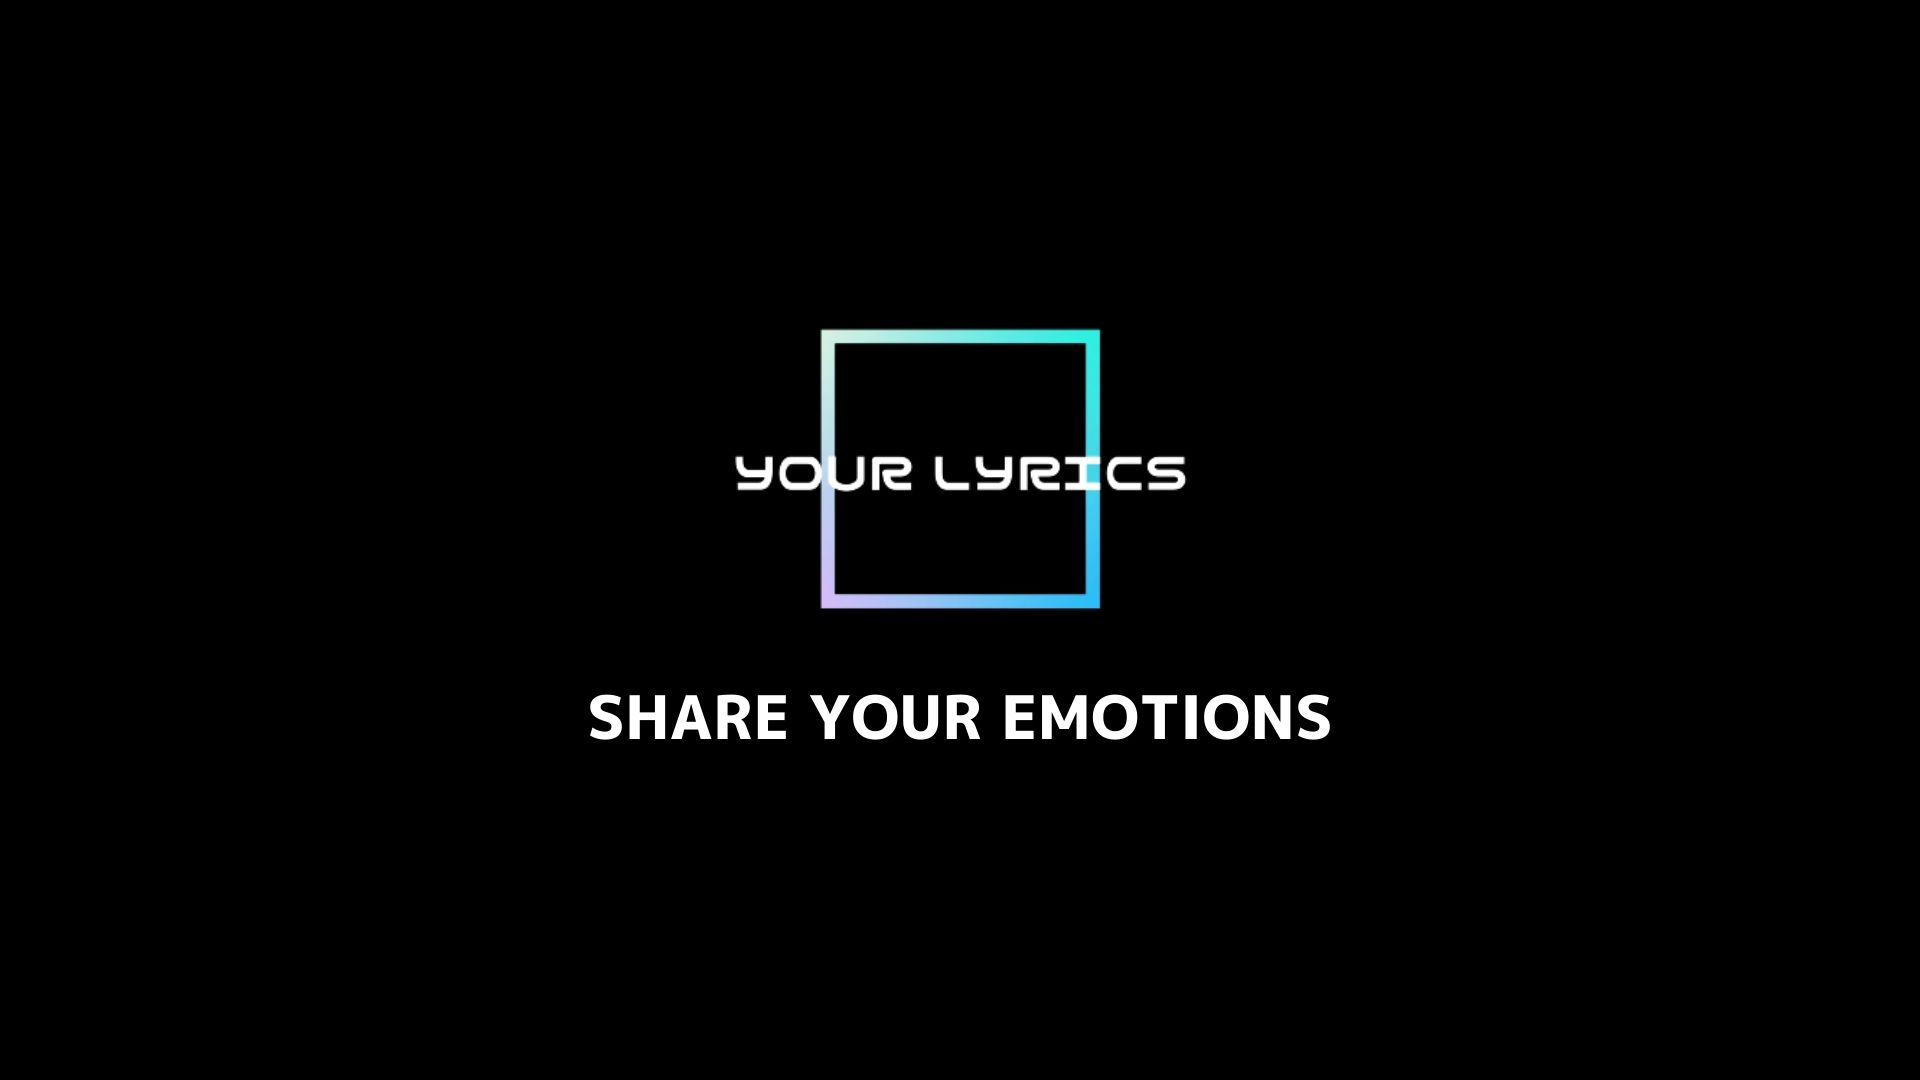
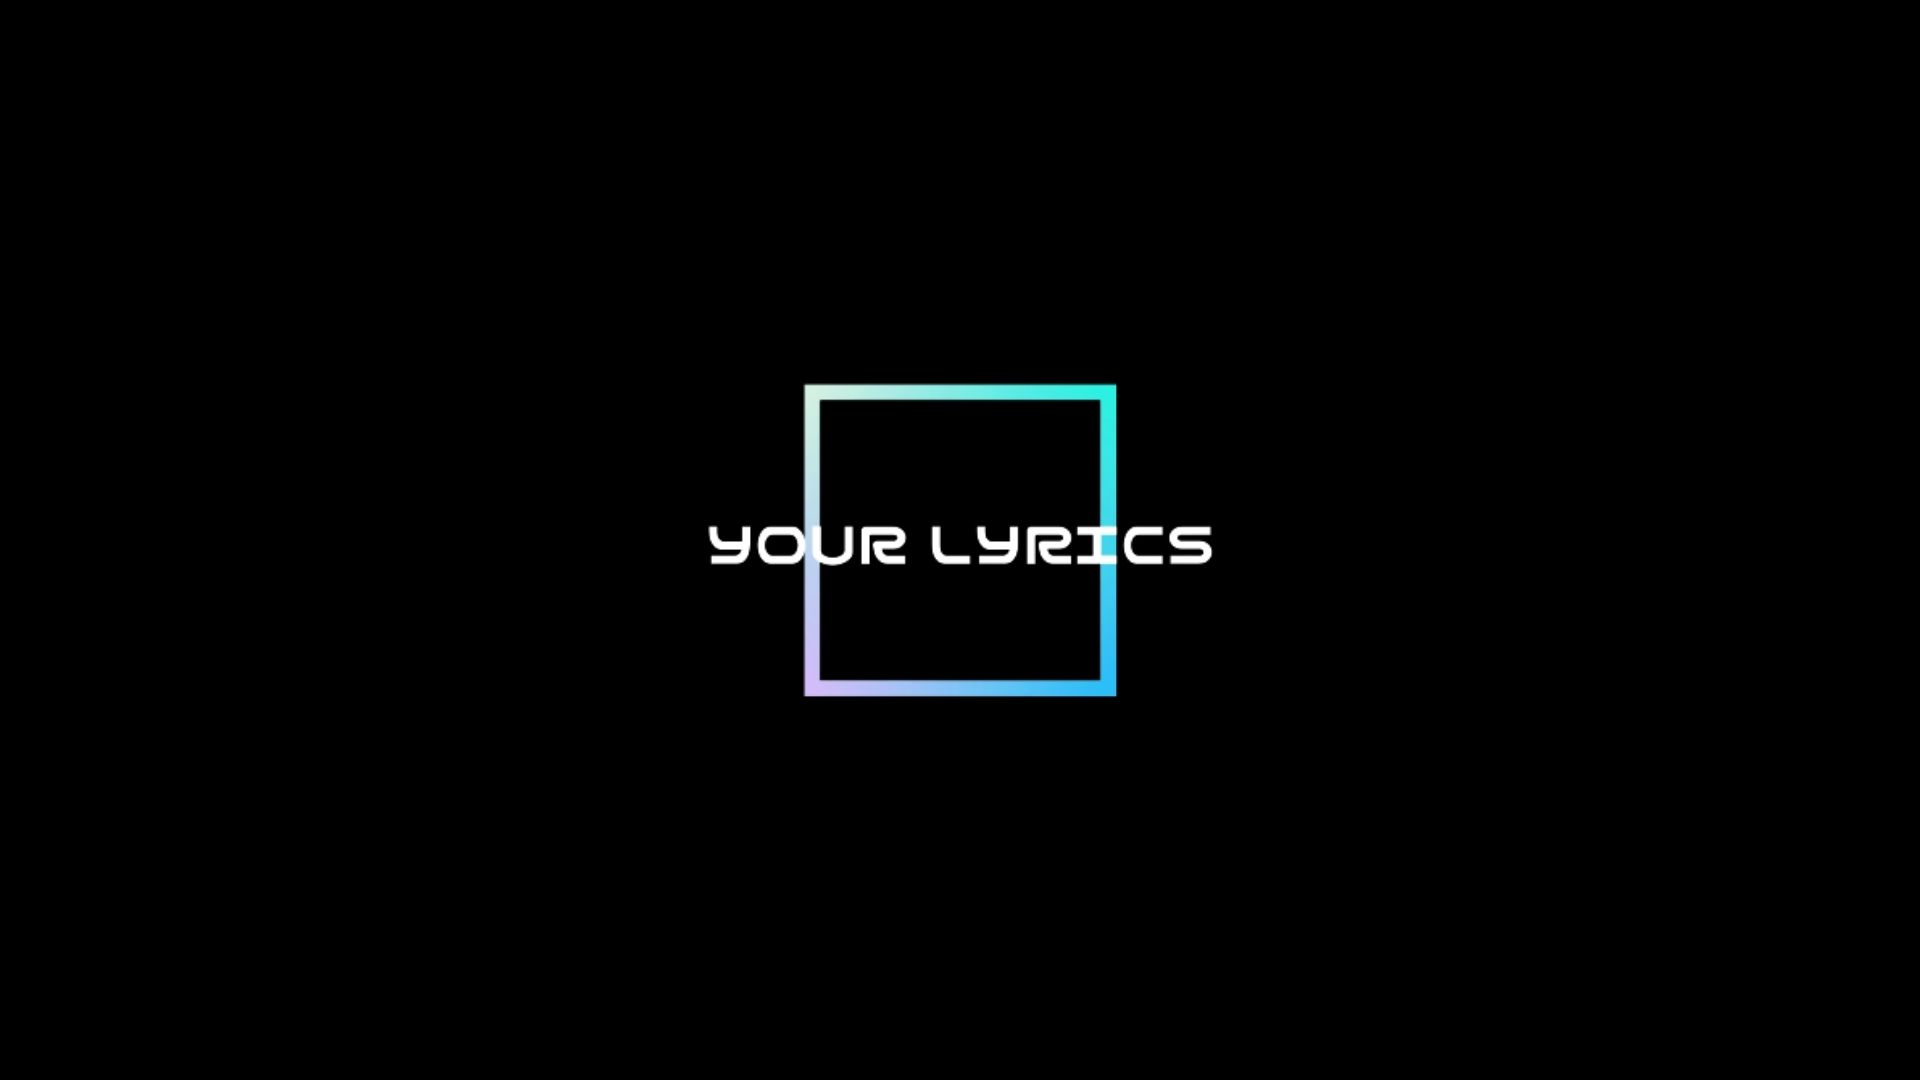
[Fix] トップページ

Changed region(s): [[0.3125, 0.3056, 0.6875, 0.7028]]

diff --git a/app/assets/stylesheets/homes.scss b/app/assets/stylesheets/homes.scss
@@ -2,7 +2,6 @@
 // They will automatically be included in application.css.
 // You can use Sass (SCSS) here: http://sass-lang.com/
 
-
 @import'variables';
 
 #main-slide {
@@ -23,38 +22,38 @@
 }
 
 .main-visual {
-   display: flex;
-   justify-content: center;
-   align-items: center;
-   height: 100vh;
-   background: url('top-image4.jpg') top center / cover no-repeat;
+  display: flex;
+  justify-content: center;
+  align-items: start;
+  height: 500px;
+  background: url('main-visual-image.jpg') top center / cover no-repeat;
 }
 
 .main-title {
-   margin: 0;
-   font-size: 70px;
-   font-weight: normal;
-   font-family: "Osaka";
-   color: #fff;
-   line-height: 3em;
+  margin: 0;
+  padding-top: 120px;
+  font-size: 70px;
+  font-weight: normal;
+  font-family: "Osaka";
+  color: #fff;
+  line-height: 3em;
 }
 
-$cWhite: white;
-$cBlack: black;
-
-#container {
+.pc-content {
+  height: 500px;
   text-align: center;
-}
 
-.answer {
-  margin-bottom: 200px;
-  .btn {
+  &__title {
+    color: black;
+  }
+
+  &__btn {
     position: relative;
     display: inline-block;
     transform-style: preserve-3d;
-    perspective: 300px;
-    width: 150px;
-    height: 50px;
+    perspective: 1000px;
+    width: 400px;
+    height: 200px;
     margin: 0 auto;
     cursor: pointer;
 
@@ -65,23 +64,24 @@ $cBlack: black;
         left: 0;
         width: 100%;
         height: 100%;
-        border: 1px solid $cBlack;
-        line-height: 48px;
+        border: 4px ridge rgba(36, 20, 14, .6);
+        line-height: 190px;
         text-align: center;
         transition: all 0.3s;
-        transform-origin: center center -25px;
-
+        transform-origin: center center -100px;
       }
 
       & .hovering {
         background-color: $cBlack;
         color: $cWhite;
-        transform: rotateX(90deg);
+        font-size: 5rem;
+        transform: rotateX(-90deg);
       }
 
       & .default {
         background-color: $cWhite;
         color: $cBlack;
+        font-size: 2rem;
         transform: rotateX(0);
       }
 
@@ -90,44 +90,42 @@ $cBlack: black;
           transform: rotateX(0);
         }
         & .default {
-          transform: rotateX(-90deg);
+          transform: rotateX(90deg);
         }
       }
     }
   }
 }
 
+
 .footer {
   padding: 60px 0;
   width: 100%;
   background-color: white;
 
+
   &__nav {
-    @extend .flex;
-    justify-content: space-between;
-    align-items: center;
-    text-align: center;
+    display: flex;
+    justify-content: center;
   }
 
   &__ul {
-    @extend .flex;
+    display: flex;
     padding: 0;
-    margin: 0;
+    margin-bottom: 30px;
     list-style: none;
   }
 
   &__li {
-    margin-left: 0;
+    margin-left: 30px;
     margin-right: 30px;
-    justify-content: flex-start;
 
     & > a {
       color: $cSubTitle;
     }
   }
 
-  & .logo {
-    font-size: 38px;
-    justify-content: flex-start;
+  &__copyright {
+    text-align: center;
   }
 }

diff --git a/app/assets/stylesheets/application.scss b/app/assets/stylesheets/application.scss
@@ -29,12 +29,26 @@ body {
   background-color: black;
 }
 
-@media screen and (max-width: 640px) {
+.nav-item {
+  color: white;
+  font-size: 1.2rem;
+  border: 1px dashed white;
+  border-radius: 12px;
+  margin: 0.5em;
+
+  &:hover {
+    color: black;
+    transition: background-color 0.3s;
+    background-color: rgba(255, 255, 255, 0.2);
+  }
+}
+
+@media screen and (max-width: 960px) {
+  .pc-content {
+    display: none;
+  }
+
   .main-visual {
     padding: 0.4%;
-  }
-  h2 {
-    line-height: 1.6;
-    text-align: center;
   }
 }

diff --git a/app/controllers/homes_controller.rb b/app/controllers/homes_controller.rb
@@ -9,6 +9,5 @@ class HomesController < ApplicationController
   end
 
   def top
-
   end
 end
